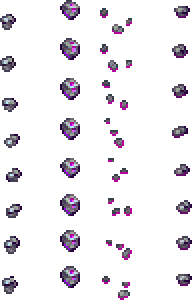
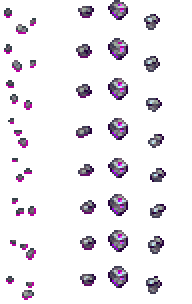
Updated Blizzard's Edge + Atlas pet

diff --git a/Items/DonatorItems/FrostTroll/BlizzardEdge.cs b/Items/DonatorItems/FrostTroll/BlizzardEdge.cs
@@ -21,6 +21,7 @@ namespace SpiritMod.Items.DonatorItems.FrostTroll
 			DisplayName.SetDefault("Blizzard's Edge");
 			Tooltip.SetDefault("Right-click after five swings to summon a blizzard");
 			SpiritGlowmask.AddGlowMask(Item.type, Texture + "_Glow");
+			Item.staff[Type] = true; //This will only take effect when using right-click
 		}
 
 		public override void SetDefaults()
@@ -35,10 +36,10 @@ namespace SpiritMod.Items.DonatorItems.FrostTroll
 			Item.knockBack = 5;
 			Item.value = 96700;
 			Item.rare = ItemRarityID.LightPurple;
-			Item.shootSpeed = 0f;
 			Item.UseSound = SoundID.Item1;
 			Item.autoReuse = true;
 			Item.crit = 6;
+			Item.shootSpeed = 1f;
 			Item.shoot = ModContent.ProjectileType<BlizzardProjectile>();
 		}
 
@@ -48,7 +49,7 @@ namespace SpiritMod.Items.DonatorItems.FrostTroll
 				target.AddBuff(BuffID.Frostburn, 400, true);
 		}
 
-		public override bool AltFunctionUse(Player player) => true;
+		public override bool AltFunctionUse(Player player) => counter <= 0;
 
 		public override void PostDrawInWorld(SpriteBatch spriteBatch, Color lightColor, Color alphaColor, float rotation, float scale, int whoAmI) => GlowmaskUtils.DrawItemGlowMaskWorld(spriteBatch, Item, ModContent.Request<Texture2D>(Texture + "_Glow", ReLogic.Content.AssetRequestMode.ImmediateLoad).Value, rotation, scale);
 
@@ -59,22 +60,19 @@ namespace SpiritMod.Items.DonatorItems.FrostTroll
 			if (player.altFunctionUse == 2 && player.whoAmI == Main.myPlayer)
 			{
 				DrawDust(player);
-				if (counter <= 0)
-				{
-					player.GetModPlayer<MyPlayer>().Shake += 8;
-					SoundEngine.PlaySound(SoundID.Item45);
 
-					if (Main.netMode != NetmodeID.Server)
-						SoundEngine.PlaySound(new SoundStyle("SpiritMod/Sounds/BlizzardLoop") with { Volume = 0.65f, PitchVariance = 0.54f }, player.Center);
+				player.GetModPlayer<MyPlayer>().Shake += 8;
+				SoundEngine.PlaySound(SoundID.Item45);
 
-					int p = Projectile.NewProjectile(source, position.X + (110 * player.direction), position.Y - 8, 0, 0, ModContent.ProjectileType<BlizzardProjectile>(), damage / 3, knockback / 4, player.whoAmI);
-					Main.projectile[p].direction = player.direction;
+				if (Main.netMode != NetmodeID.Server)
+					SoundEngine.PlaySound(new SoundStyle("SpiritMod/Sounds/BlizzardLoop") with { Volume = 0.65f, PitchVariance = 0.54f }, player.Center);
 
-					if (Main.netMode != NetmodeID.SinglePlayer)
-						NetMessage.SendData(MessageID.SyncProjectile, -1, -1, null, p);
+				int p = Projectile.NewProjectile(source, position, velocity, ModContent.ProjectileType<BlizzardProjectile>(), damage / 3, knockback / 4, player.whoAmI);
 
-					counter = 5;
-				}
+				if (Main.netMode != NetmodeID.SinglePlayer)
+					NetMessage.SendData(MessageID.SyncProjectile, -1, -1, null, p);
+
+				counter = 5;
 			}
 
 			if (counter == 0 && Main.netMode != NetmodeID.Server)
@@ -87,14 +85,15 @@ namespace SpiritMod.Items.DonatorItems.FrostTroll
 
 		public void DrawDust(Player player)
 		{
-			float cosRot = (float)Math.Cos(player.itemRotation - 0.78f * player.direction * player.gravDir);
-			float sinRot = (float)Math.Sin(player.itemRotation - 0.78f * player.direction * player.gravDir);
+			float cosRot = (float)Math.Cos(player.itemRotation * player.direction * player.gravDir);
+			float sinRot = (float)Math.Sin(player.itemRotation * player.direction * player.gravDir);
+
 			if (!Main.dedServ)
 			{
 				for (int i = 0; i < 13; i++)
 				{
 					float length = (Item.width * 1.2f - i * Item.width / 9) * Item.scale + 32;
-					ParticleHandler.SpawnParticle(new FireParticle(new Vector2((float)(player.itemLocation.X + length * cosRot * player.direction), (float)(player.itemLocation.Y + length * sinRot * player.direction)), new Vector2(0, Main.rand.NextFloat(-.15f, -.1f)), Blue, White, Main.rand.NextFloat(0.15f, 0.45f), 30));
+					ParticleHandler.SpawnParticle(new FireParticle(new Vector2((float)(player.itemLocation.X + length * cosRot * player.direction), (float)(player.itemLocation.Y + length * sinRot)), new Vector2(0, Main.rand.NextFloat(-.8f, -.2f)), Blue, White, Main.rand.NextFloat(0.15f, 0.45f), 30));
 				}
 			}
 		}
@@ -106,7 +105,7 @@ namespace SpiritMod.Items.DonatorItems.FrostTroll
 				if (counter > 0)
 					return false;
 
-				Item.useStyle = ItemUseStyleID.HoldUp;
+				Item.useStyle = ItemUseStyleID.Shoot;
 			}
 			else
 			{
@@ -121,6 +120,9 @@ namespace SpiritMod.Items.DonatorItems.FrostTroll
 		private readonly Color Blue = new(0, 114, 201);
 		private readonly Color White = new(255, 255, 255);
 
+		public ref float Timer => ref Projectile.ai[0];
+		private readonly int timerMax = 400;
+
 		public override string Texture => SpiritMod.EMPTY_TEXTURE;
 
 		public override void SetStaticDefaults() => DisplayName.SetDefault("Blizzard");
@@ -131,58 +133,67 @@ namespace SpiritMod.Items.DonatorItems.FrostTroll
 			Projectile.hostile = false;
 			Projectile.penetrate = 25;
 			Projectile.timeLeft = 120;
-			Projectile.height = 60;
 			Projectile.tileCollide = false;
-			Projectile.width = 350;
+			Projectile.width = 60;
+			Projectile.height = 60;
 			Projectile.alpha = 255;
 		}
 
 		public override void AI()
 		{
-			Projectile.velocity.X = .5f * Projectile.direction;
+			Projectile.position -= Projectile.velocity;
+			Projectile.rotation = Projectile.velocity.ToRotation();
+			Vector2 dirFactor = Vector2.Normalize(Projectile.velocity);
 
-			Dust dust = Main.dust[Dust.NewDust(new Vector2(Projectile.Center.X - (120f * Projectile.direction), Projectile.Center.Y - 30 + Main.rand.Next(-25, 25)), 0, 0, ModContent.DustType<Dusts.BlizzardDust>(), 0f, 0f, 100, new Color(), Main.rand.NextFloat(1.125f, 1.775f))];
-			dust.velocity.Y = 0f;
-			dust.velocity.X = Main.rand.NextFloat(13f, 16f) * Projectile.direction;
+			if (Timer < timerMax)
+				Timer += timerMax / 20;
+
+			Vector2 position = Projectile.Center + (Vector2.UnitY * Main.rand.Next(-25, 25)).RotatedBy(Projectile.rotation);
+
+			float scale = Main.rand.NextFloat(1.125f, 1.775f);
+			Dust.NewDustPerfect(position - (Vector2.UnitY * 18 * scale), ModContent.DustType<Dusts.BlizzardDust>(), dirFactor * Main.rand.NextFloat(13f, 16f), 100, new Color(), Main.rand.NextFloat(1.125f, 1.775f));
 
 			if (Main.rand.NextBool(3))
 			{
-				ParticleHandler.SpawnParticle(new SmokeParticle(new Vector2(Projectile.Center.X - (120f * Projectile.direction), Projectile.Center.Y + Main.rand.Next(-25, 25)), new Vector2(Main.rand.NextFloat(-1.5f, 1.5f)), Color.Lerp(Color.LightBlue * .8f, White * .8f, Projectile.timeLeft / 120f), Main.rand.NextFloat(0.55f, 0.75f), 30, delegate (Particle p)
+				ParticleHandler.SpawnParticle(new SmokeParticle(position, new Vector2(Main.rand.NextFloat(-1.5f, 1.5f)), Color.Lerp(Color.LightBlue * .8f, White * .8f, Projectile.timeLeft / 120f), Main.rand.NextFloat(0.55f, 0.75f), 30, delegate (Particle p)
 				{
 					p.Velocity *= 0.93f;
-					p.Velocity.Y = 0f;
-					p.Velocity.X = Main.rand.NextFloat(11f, 14f) * Projectile.direction;
+					p.Velocity = dirFactor * Main.rand.NextFloat(11f, 14f);
 				}));
 			}
 			if (Main.rand.NextBool(5))
 			{
-				ParticleHandler.SpawnParticle(new SnowflakeParticle(new Vector2(Projectile.Center.X - (120f * Projectile.direction), Projectile.Center.Y + Main.rand.Next(-25, 25)), new Vector2(Main.rand.NextFloat(-1.5f, 1.5f), Main.rand.NextFloat(-4.5f, -2.5f)), Blue, White, Main.rand.NextFloat(.45f, .95f), 45, .5f, Main.rand.Next(3), delegate (Particle p)
+				ParticleHandler.SpawnParticle(new SnowflakeParticle(position, new Vector2(Main.rand.NextFloat(-1.5f, 1.5f), Main.rand.NextFloat(-4.5f, -2.5f)), Blue, White, Main.rand.NextFloat(.45f, .95f), 45, .5f, Main.rand.Next(3), delegate (Particle p)
 				{
 					p.Velocity *= 0.93f;
-					p.Velocity.Y += 0.15f;
-					p.Velocity.X = Main.rand.NextFloat(12f, 15f) * Projectile.direction;
+					p.Velocity = dirFactor * Main.rand.NextFloat(12f, 15f);
 				}));
 			}
-			ParticleHandler.SpawnParticle(new FireParticle(new Vector2(Projectile.Center.X - (120f * Projectile.direction), Projectile.Center.Y + Main.rand.Next(-25, 25)), new Vector2(Main.rand.NextFloat(-1.5f, 1.5f), Main.rand.NextFloat(-4.5f, -2.5f)), Blue, White, Main.rand.NextFloat(0.15f, 0.45f), 30, delegate (Particle p)
+			ParticleHandler.SpawnParticle(new FireParticle(position, new Vector2(Main.rand.NextFloat(-1.5f, 1.5f), Main.rand.NextFloat(-4.5f, -2.5f)), Blue, White, Main.rand.NextFloat(0.15f, 0.45f), 30, delegate (Particle p)
 			{
 				p.Velocity *= 0.93f;
-				p.Velocity.Y = 0f;
-				p.Velocity.X = Main.rand.NextFloat(13f, 16f) * Projectile.direction;
+				p.Velocity = dirFactor * Main.rand.NextFloat(13f, 16f);
 			}));
 		}
 
 		public override void OnHitNPC(NPC target, int damage, float knockback, bool crit)
 		{
+			Vector2 dirFactor = Vector2.Normalize(Projectile.velocity);
+
 			if (Main.rand.NextBool(3))
 				target.AddBuff(BuffID.Frostburn, 240);
 
 			for (int i = 0; i < 2; i++)
 			{
-				ParticleHandler.SpawnParticle(new ImpactLine(target.Center, new Vector2(Projectile.velocity.X * .65f, Main.rand.NextFloat(-.5f, .5f)), Color.Lerp(White, Blue, Main.rand.NextFloat()), new Vector2(0.25f, Main.rand.NextFloat(0.4f, .55f) * 1.5f), 70) 
-				{ 
-					TimeActive = 30 
-				});
+				ParticleHandler.SpawnParticle(new ImpactLine(target.Center, (dirFactor * .65f).RotatedByRandom(.5f), Color.Lerp(White, Blue, Main.rand.NextFloat()), new Vector2(0.25f, Main.rand.NextFloat(0.4f, .55f) * 1.5f), 70) 
+				{ TimeActive = 30 });
 			}
+		}
+
+		public override bool? Colliding(Rectangle projHitbox, Rectangle targetHitbox)
+		{
+			Vector2 dirFactor = Vector2.Normalize(Projectile.velocity);
+			return Collision.CheckAABBvLineCollision(targetHitbox.TopLeft(), targetHitbox.Size(), Projectile.Center, Projectile.Center + (dirFactor * Timer));
 		}
 	}
 }

diff --git a/Items/BossLoot/AtlasDrops/AtlasPet/AtlasPetProjectile.cs b/Items/BossLoot/AtlasDrops/AtlasPet/AtlasPetProjectile.cs
@@ -19,12 +19,12 @@ namespace SpiritMod.Items.BossLoot.AtlasDrops.AtlasPet
 		public ref float State => ref Projectile.ai[0];
 		public ref float TargetNPC => ref Projectile.ai[1];
 
-		private List<AtlasPetPart> _parts = new List<AtlasPetPart>();
+		private readonly List<AtlasPetPart> _parts = new();
 		private float _handFactor = 0;
 
 		public override void SetStaticDefaults()
 		{
-			DisplayName.SetDefault("Lil' Scarab");
+			DisplayName.SetDefault("Atlas Jr.");
 			Main.projFrames[Projectile.type] = 2;
 			Main.projPet[Projectile.type] = true;
 
@@ -54,6 +54,22 @@ namespace SpiritMod.Items.BossLoot.AtlasDrops.AtlasPet
 			{
 				Behaviour();
 				UpdateParts();
+			}
+
+			if (Main.rand.NextBool(3))
+			{
+				Vector2 position = Projectile.oldPos[1] + (Projectile.Size / 2) + new Vector2(2, 8);
+
+				Vector2 factor = Main.rand.NextVector2Unit() * 10f;
+				factor.Y *= .5f;
+				float scale = Main.rand.NextFloat(0.2f, 1.0f);
+
+				Vector2 velocity = Vector2.Normalize(factor).RotatedBy(1.57f) * scale;
+				velocity.Y *= .35f;
+
+				Dust dust = Dust.NewDustPerfect(position + factor, DustID.PinkTorch, velocity, 80, default, scale);
+				dust.noGravity = true;
+				dust.noLightEmittence = true;
 			}
 		}
 
@@ -115,13 +131,13 @@ namespace SpiritMod.Items.BossLoot.AtlasDrops.AtlasPet
 			{
 				item.Update();
 
-				int slot = new int[4] { HandOldPosSlot, 0, 2, HandOldPosSlot }[item.column];
+				int slot = new int[4] { 2, HandOldPosSlot, 0, HandOldPosSlot }[item.column];
 				item.position = Projectile.oldPos[slot];
 
 				float adj = Projectile.oldPos[slot].X - Projectile.oldPos[slot + 1].X;
 				item.effects = Math.Sign(float.IsNaN(adj) ? 0 : adj) == -1 ? SpriteEffects.FlipHorizontally : SpriteEffects.None;
 
-				if ((item.column == 0 || item.column == 3) && TargetNPC != -1)
+				if ((item.column == 1 || item.column == 3) && TargetNPC != -1)
 				{
 					item.position = HandPosition(item.column == 0 ? new Vector2(10, 0) : new Vector2(-10, 0));
 					item.effects = Target.velocity.X > 0 ? SpriteEffects.None : SpriteEffects.FlipHorizontally;
@@ -149,6 +165,13 @@ namespace SpiritMod.Items.BossLoot.AtlasDrops.AtlasPet
 
 		public override bool PreDraw(ref Color lightColor)
 		{
+			Texture2D ray = Mod.Assets.Request<Texture2D>("Textures/Ray_2").Value;
+			Vector2 offset = new Vector2((Projectile.direction == -1) ? 4 : 0, -4);
+			Color color = (Color.Purple * 1.8f * (1f - (float)(Projectile.velocity.Length() * 0.2f))) with { A = 0 };
+
+			Main.EntitySpriteDraw(ray, Projectile.oldPos[1] + (Projectile.Size / 2) + offset - Main.screenPosition, null, color, 
+				Projectile.rotation, new Vector2(ray.Width / 2, 0), new Vector2(1.2f, 0.3f) * Projectile.scale, SpriteEffects.None, 0);
+
 			foreach (var item in _parts)
 				item.Draw();
 			return false;

diff --git a/Items/BossLoot/AtlasDrops/AtlasPet/AtlasPetPart.cs b/Items/BossLoot/AtlasDrops/AtlasPet/AtlasPetPart.cs
@@ -9,7 +9,8 @@ namespace SpiritMod.Items.BossLoot.AtlasDrops.AtlasPet
 {
 	internal class AtlasPetPart
 	{
-		public Asset<Texture2D> AtlasPetTex => TextureAssets.Projectile[ModContent.ProjectileType<AtlasPetProjectile>()];
+		public static Asset<Texture2D> AtlasPetTex => TextureAssets.Projectile[ModContent.ProjectileType<AtlasPetProjectile>()];
+		public static Asset<Texture2D> AtlasPetGlowMask => ModContent.Request<Texture2D>("SpiritMod/Items/BossLoot/AtlasDrops/AtlasPet/AtlasPetProjectile_Glow");
 
 		public Vector2 position;
 		public int column = 0;
@@ -18,10 +19,7 @@ namespace SpiritMod.Items.BossLoot.AtlasDrops.AtlasPet
 		private int _frame = 0;
 		private float _frameCounter = 0;
 
-		public void Update()
-		{
-			UpdateFrame();
-		}
+		public void Update() => UpdateFrame();
 
 		private void UpdateFrame()
 		{
@@ -44,6 +42,8 @@ namespace SpiritMod.Items.BossLoot.AtlasDrops.AtlasPet
 			var color = Lighting.GetColor(position.ToTileCoordinates());
 
 			Main.EntitySpriteDraw(AtlasPetTex.Value, position + origin - Main.screenPosition, source, color, 0f, origin, 1f, effects, 0);
+
+			Main.EntitySpriteDraw(AtlasPetGlowMask.Value, position + origin - Main.screenPosition, source, Color.White, 0f, origin, 1f, effects, 0);
 		}
 	}
 }

diff --git a/MyPlayer.cs b/MyPlayer.cs
@@ -1468,7 +1468,7 @@ namespace SpiritMod
 			int y1 = (int)Player.Center.Y / 16;
 			var config = ModContent.GetInstance<SpiritClientConfig>();
 
-			if (Player.ZoneSnow && Main.rand.NextBool(27))
+			if (Player.ZoneSnow && !Player.behindBackWall && Main.rand.NextBool(27))
 			{
 				Vector2 spawnPos = new Vector2(Player.Center.X + 8 * Player.direction, Player.Center.Y - 2f);
 				if (Player.sleeping.isSleeping)
